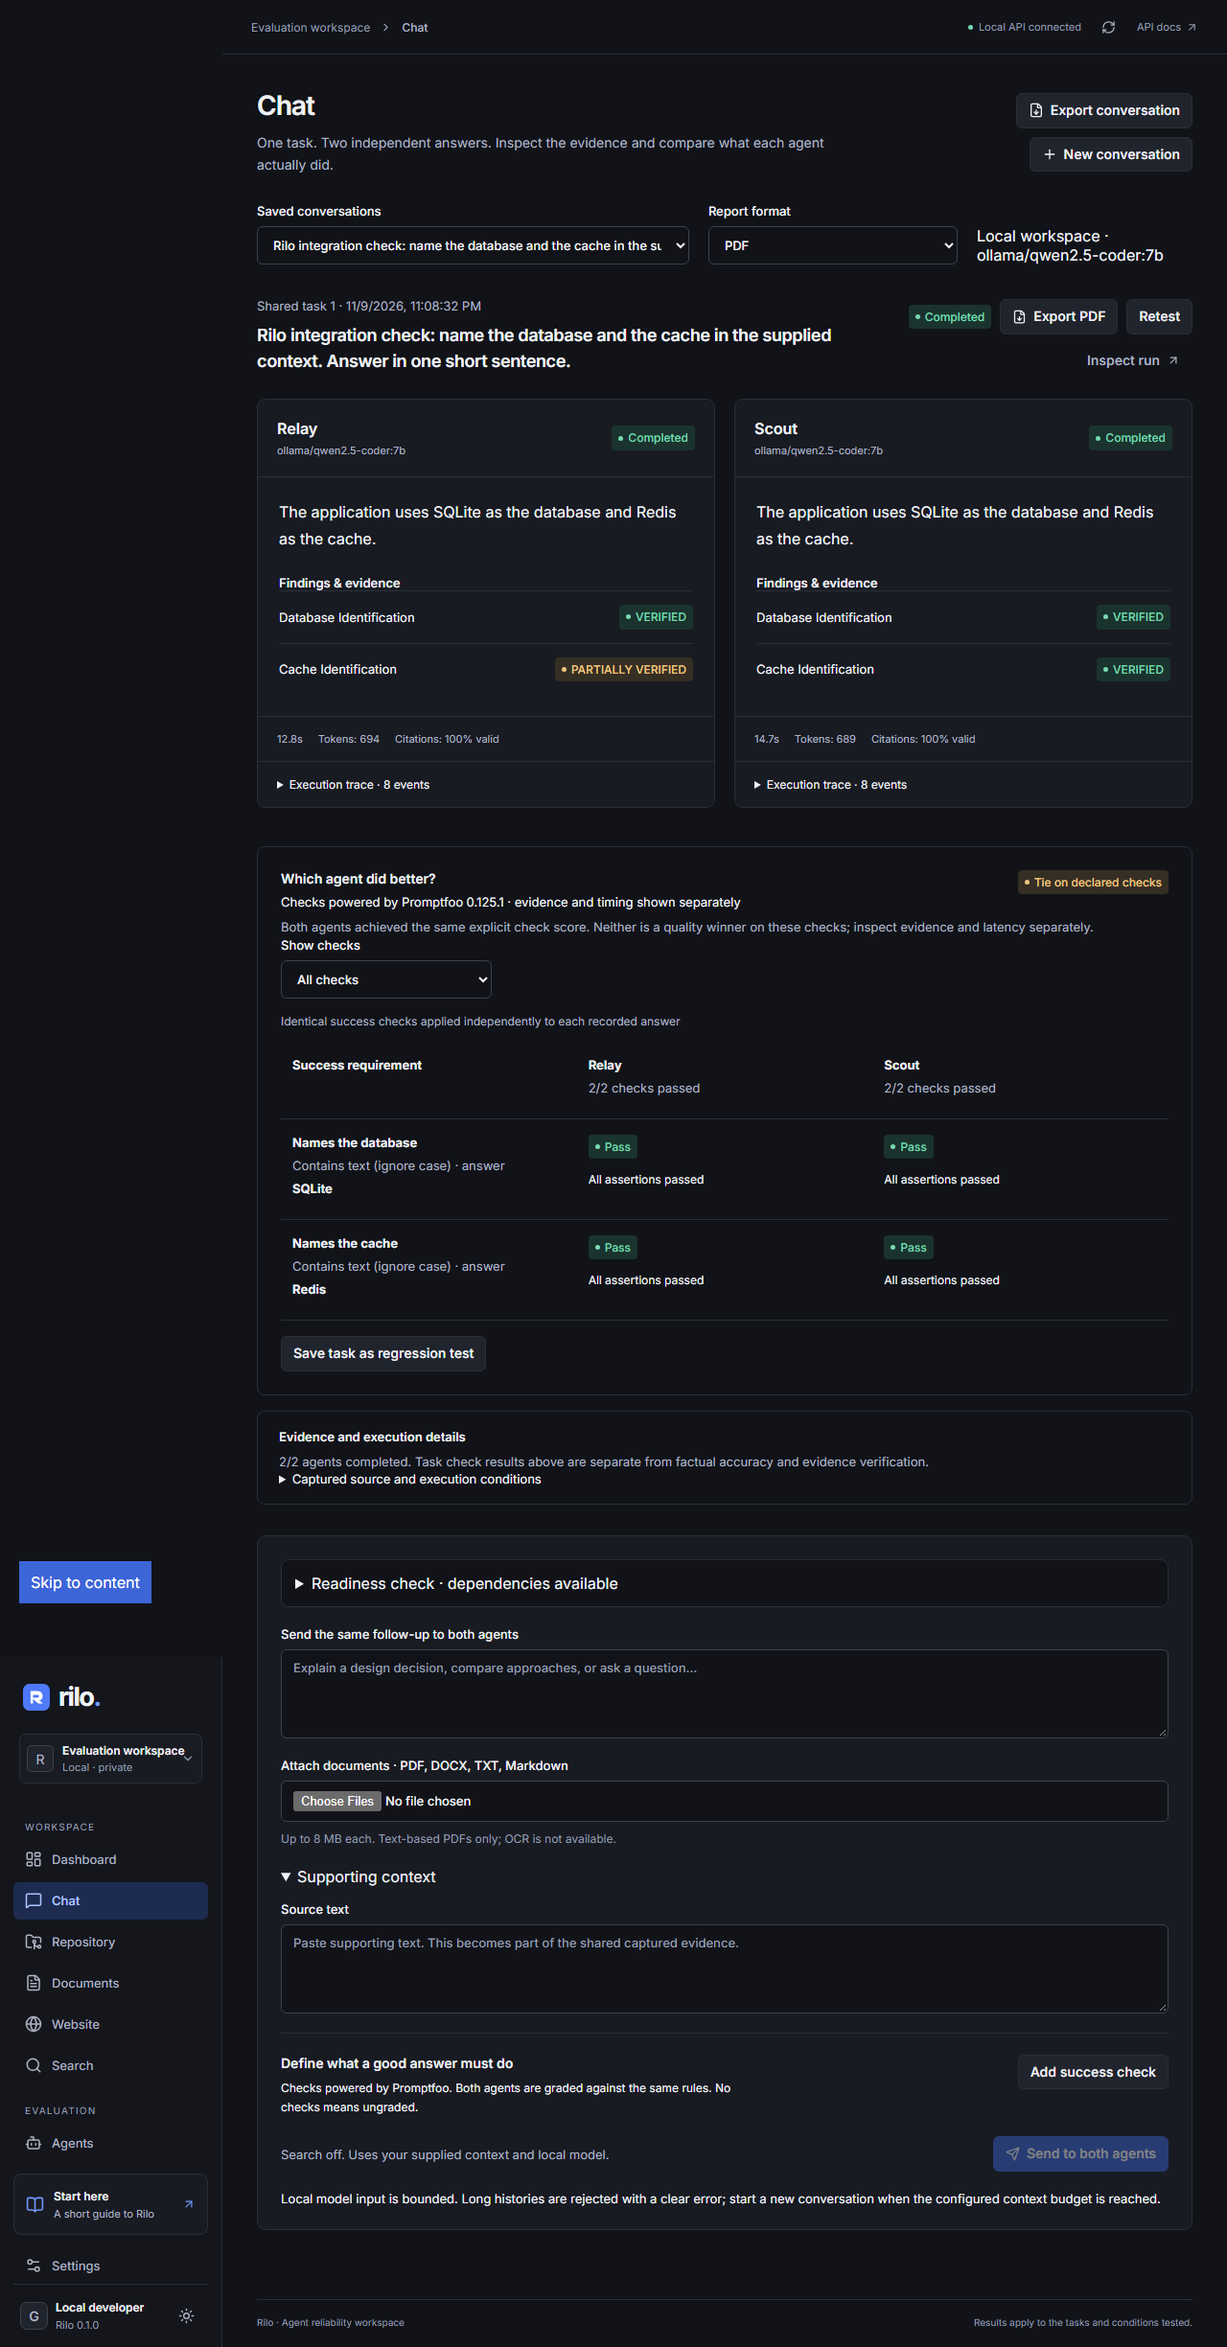
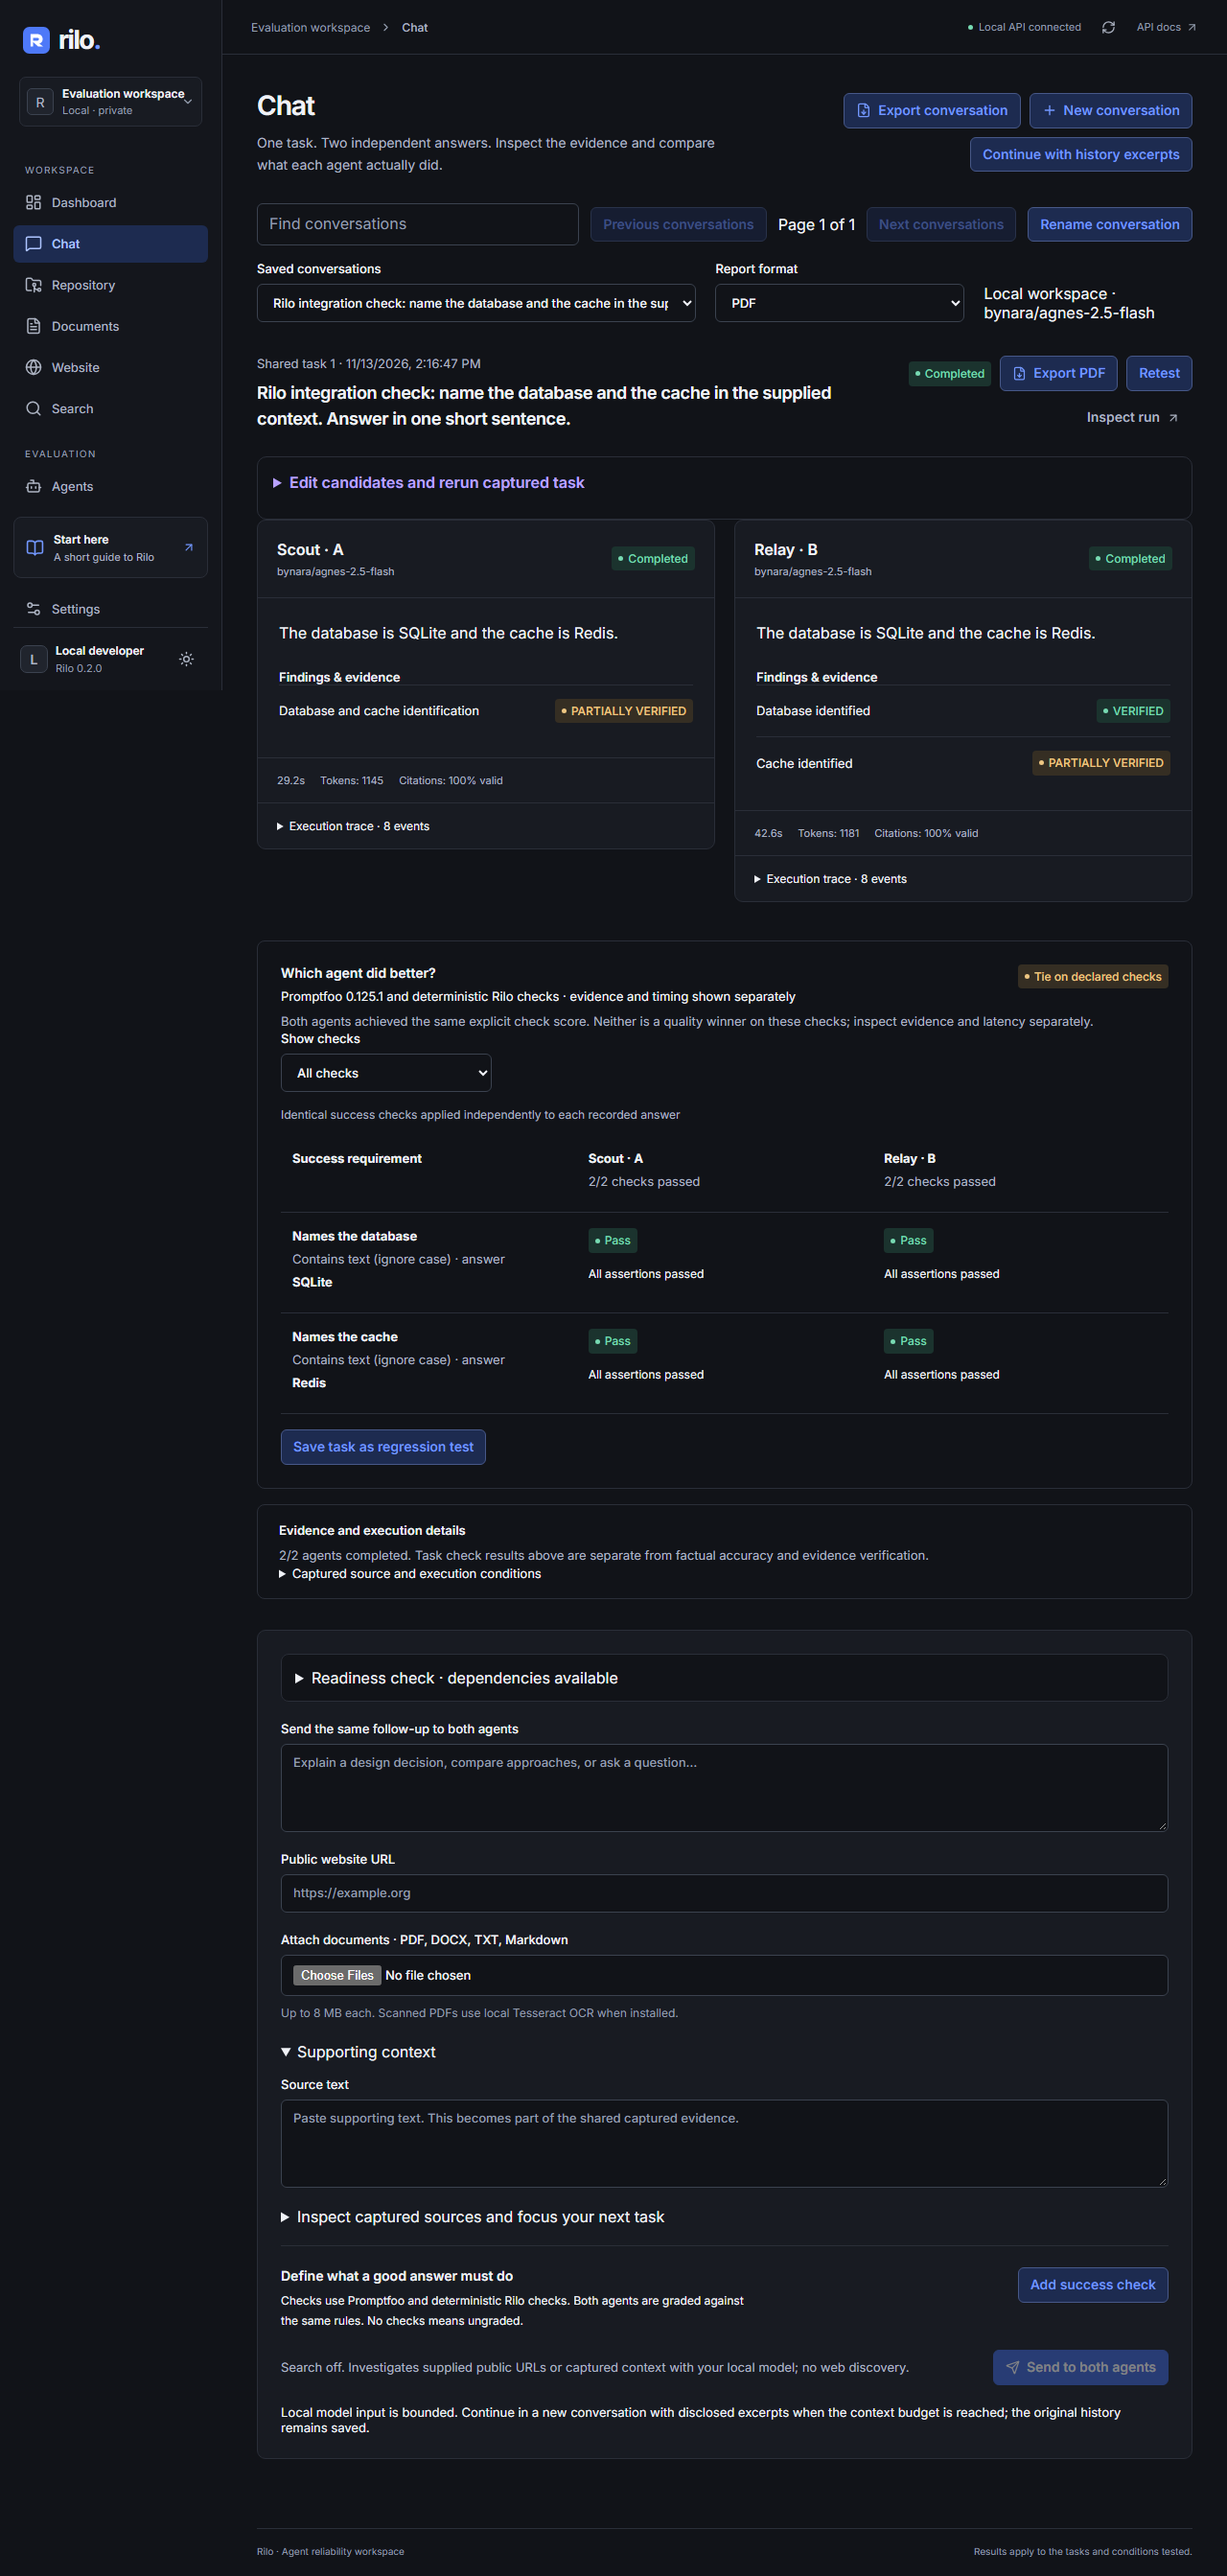
Record live paired evaluation acceptance for patched runtime

diff --git a/docs/STORAGE_STATUS_FIX_2026-11-13.md b/docs/STORAGE_STATUS_FIX_2026-11-13.md
@@ -65,3 +65,13 @@ in 111.98 seconds, covering actual Promptfoo assertions, practical assistants,
 local storage and CLI runtime. The full 257-test result above predates this
 dependency patch. The restarted patched services again passed readiness and
 forty concurrent storage-status reads.
+
+The opt-in actual-inference Chromium test also passed in 3.1 minutes using
+`bynara/agnes-2.5-flash`. It exercised paired replies, two declared text checks,
+PDF download, saved regression suite and retest with the patched Promptfoo
+runtime. The saved original evaluation is `exp_bacab9bdf2e84cf3` in conversation
+`conv_b4dac25451a345be`; both agents completed and passed the declared checks.
+Its source text is an explicit supplied SQLite/Redis example, not a live research
+query or general accuracy benchmark. The
+[captured check matrix](ui-evidence/promptfoo-real-paired-checks.png) is refreshed
+from this actual browser run.
